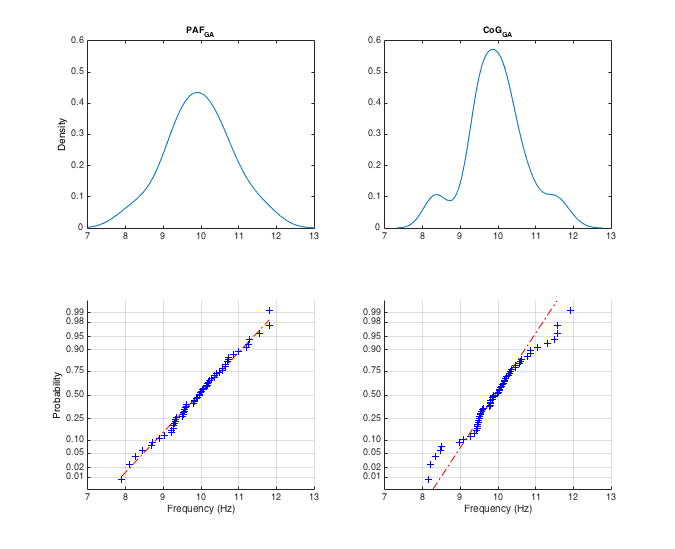
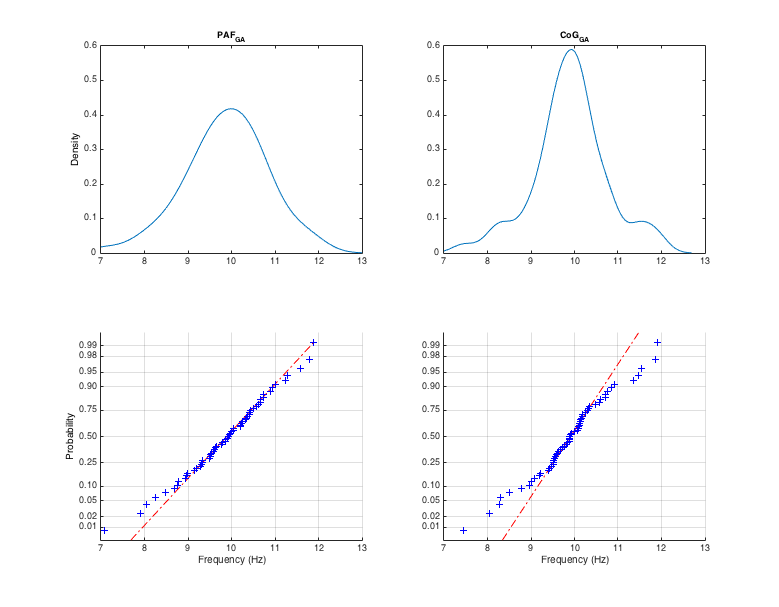
several edits addressing notes, also regenerated figs due to small error in empirical data estimates

diff --git a/iaf_manu.md b/iaf_manu.md
@@ -12,7 +12,7 @@ abstract:
   Great new IAF technique described here.
 
 keywords:   
-  Individual alpha frequency, peak alpha frequency, alpha frequency centre of gravity, posterior alpha rhythm, posterior dominant rhythm, Savitzky-Golay filter
+  Individual alpha frequency, peak frequency, centre of gravity, alpha rhythm, posterior dominant rhythm, Savitzky-Golay filter
 
 output: 
   html_document
@@ -52,7 +52,7 @@ We begin by surveying various attempts to operationalise these measures of IAF, 
 
 ### 1.1 Peak alpha frequency
 The classical method of estimating IAF relies on delineating the peak alpha frequency (PAF); a singular, prominent peak within the alpha-band frequency range (8-13 Hz; @noachtar2004) of the power spectral density (PSD) plot ([Fig_pafs](#pafs)).
-This expression can be formalised in terms of the local (i.e. relative) maximum within the alpha band:<!-- AC: PA recommended switching back to the argmax formulation, which i have tried to render below. note that i have also included additional terms to better reflect the additional requirements of the PAF mentioned in the informal definition above (singularity & prominance or nontriviality) --> 
+This expression can be formalised in terms of the local (i.e. relative) maximum within the alpha band:
 
 $$ PAF = \text{arg max}_{\substack{x\in A \subseteq PSD }} f(x) \iff \text{arg max}_{\substack{x\in A \subseteq PSD }} f(x) = \text{singleton} \land \text{max}_{\substack{x\in A \subseteq PSD }} f(x) \geq \phi , $$
 
@@ -123,11 +123,11 @@ This is obviously problematic given that one of the chief advantages of the CoG 
 We turn now to two interesting extensions of the TF approach that depend on the alpha blocking or desynchronisation phenomenon mentioned above. 
 The first method, which we refer to as peak attenuation, was described by @posthuma2001.
 
-![*Fig_blocking.* Illustration of the peak attenuation method, in which PSD estimates from a period of eyes-open EEG (EO) are subtracted from a corresponding eyes-closed recording (EC). The peak frequency of the resulting difference function (within the extended alpha band 7-14 Hz, grey column in difference spectra) is taken as the IAF estimate. *Top row*: Alpha-band activity registered during the EO recording (red shading) is relatively low compared to that of the EC spectrum (blue shading). In this case, the peak attenuation method returns the PAF of the EC spectrum as the IAF estimate. *Central row*: When alpha-band activity is similar across EO and EC recordings, peak attenuation may be vulnerable to bias. In this case, the primary peak ~9.75 Hz is present in both spectra, cancelling one another out. Peak attenuation returns 8.5 Hz (the frequency of the secondary peak) as the IAF. *Bottom row*: Data from another participant in which partial overlap of EC and EO spectral components shifts the estimated alpha peak by ~1 Hz.](figs/blocking.png){#blocking} <!-- AC: I had intended to wrap the following paragraph to one side of this figure, but I'm not sure markdown supports this.-->
+![*Fig_blocking.* Illustration of the peak attenuation method, in which PSD estimates from a period of eyes-open EEG (EO) are subtracted from a corresponding eyes-closed recording (EC). The peak frequency of the resulting difference function (within the extended alpha band 7-14 Hz, grey column in difference spectra) is taken as the IAF estimate. *Top row*: Alpha-band activity registered during the EO recording (red shading) is relatively low compared to that of the EC spectrum (blue shading). In this case, the peak attenuation method returns the PAF of the EC spectrum as the IAF estimate. *Central row*: When alpha-band activity is similar across EO and EC recordings, peak attenuation may be vulnerable to bias. In this case, the primary peak ~9.75 Hz is present in both spectra, cancelling one another out. Peak attenuation returns 8.5 Hz (the frequency of the secondary peak) as the IAF. *Bottom row*: Data from another participant in which partial overlap of EC and EO spectral components shifts the estimated alpha peak by ~1 Hz.](figs/blocking.png){#blocking}
 
-Similar in principle to Klimesch's [@klimesch1999]<!-- AC: check how to be more flexible with citation format --> delineation of the TF, this technique simply subtracts eyes-oped PSD estimates from the corresponding ordinates of the eyes-closed PSD within some a priori defined alpha-band window (typically extended beyond the standard bandwidth; e.g., 7–14 Hz).
+Similar in principle to Klimesch's [@klimesch1999] delineation of the TF, this technique simply subtracts eyes-oped PSD estimates from the corresponding ordinates of the eyes-closed PSD within some a priori defined alpha-band window (typically extended beyond the standard bandwidth; e.g., 7–14 Hz).
 The resulting peak, which constitutes the maximal power difference between the two spectra, is taken as the PAF ([Fig_blocking](#blocking), top row). 
-To avoid trivial peaks arising from small fluctuations in the PSD, Posthuma and colleagues excluded spectra featuring consistently low power estimates (< 1.5 $\mu$V/Hz) within the alpha-band. <!-- AC: They report 1.5mV, but is it safe to assume they probably meant 1.5 mV^2^ ? -->
+To avoid trivial peaks arising from small fluctuations in the PSD, Posthuma and colleagues excluded spectra featuring consistently low power estimates (< 1.5 $\mu$V/Hz) within the alpha-band.
 It isn’t clear, however, whether this criterion (which is analagous to the $\phi$ parameter in the PAF equation defined above) was also applied in cases where the maximal difference between spectra was similarly small (i.e. where both spectra present a substantive, approximately overlapping alpha-band component).
 Posthuma and colleagues also remarked that peak attenuation estimates deviated from eyes-closed resting-state PAFs in 21% of cases. 
 This lack of convergence, coupled with the observation that peak attenuation may lead to distorted representations of the PAF when the assumption of significant eyes-open alpha desynchronisation fails to obtain [see [Fig_blocking](#blocking), central and bottom row; cf. @kreitman1965], suggests peak attenuation may constitute a suboptimal IAF estimator (at least insofar as IAF is conceived in terms of the PAF).
@@ -142,7 +142,7 @@ Not only does it improve on previous attempts to characterise the bounds of the 
 As such, CRB promises to maximise the potential utility of the CoG as an estimator of IAF that can be reliably computed irrespective of the presence or absence of a single, distinct peak component. 
 We note however that, much like the peak attenuation technique, CRB estimates may be prone to bias in cases where the ERD task elicits asymmetrical patterns of alpha-band desynchronisation [@klimesch1996b; see also @klimesch1997, for evidence of the dissociation between lower and upper alpha-band reactivity]. 
 This is because the partial overlap of reference and test spectra that will ensue should the test stimulus fail to evoke comprehensive alpha desynchronisation will restrict the responsiveness region to a limited segment of the alpha band, thus precipitating a narrower (and potentially shifted) index of summation. 
-Indeed, this phenomenon might go some way to explaining the substantial discrepancies observed between some of the CRB CoGs reported by Goljahani and colleagues (some of which were extreme by conventional standards; e.g., 14.9 Hz) and the corresponding PAFs derived from the same set of channel data [@goljahani2012].<!-- AC: e.g. fig 6(d), apparently trivial reactivity window, mostly located in beta range, Cog ~17 Hz. ?NaN preferable -->
+Indeed, this phenomenon might go some way to explaining the substantial discrepancies observed between some of the CRB CoGs reported by Goljahani and colleagues (some of which were extreme by conventional standards; e.g., 14.9 Hz) and the corresponding PAFs derived from the same set of channel data [@goljahani2012].
 
 A related concern deriving from the CRB method’s reliance on phasic changes in rhythmic activity is the possibility that within-subject estimates of IAF might vary depending on the specific processing mode evoked by the event (e.g., target discrimination vs. memory retrieval; visual vs. auditory modality), and the relative timing of the reference/test intervals subjected to spectral analysis. <!-- PA: How do these concerns interact with the idea that IAF is trait-like? AC response: Several authors posit that there are a variety of alpha generators, the cumulative activity of which accounts for the characteristic resting peak (or peaks), and thus shifts in peak frequency mark shifts in the relative activity of these populations. The argument here then is that, while resting eyes closed IAF is stable/enduring and indicative of at least some cognitive capacities (presumably by tapping into specific underlying neuronal processes), measures of alpha activity during cognitive tasks (or the difference in alpha activity between different states of rest/anticipation/action) may not offer an analagous index of IAF as construed by research involving EC resting state data. I see no necessary contradiction between the notion that resting state IAF is stable/'trait-like' etc, and the observation that dominant alpha band activity dynamically shifts during 'non-restful' states (presumably as a consequency of the shifting division of labour across alpha generators). indeed, since you asked me this question, i've re-read a few articles and noticed a number of references to this idea of IAF as possessing both trait- and state-like qualities-->
 ERD studies have revealed that both the qualitative profile and temporal course of alpha- and theta-band desynchronisation are contingent upon the particular nature of the task used to induce oscillatory power shifts [@klimesch2006; @klimesch2007]. 
@@ -158,7 +158,7 @@ This technique has likewise been applied to a large dataset comprising resting-s
 Lodder and van Putten reported that higher degrees of estimate accuracy (i.e. agreement with visually identified PAFs) could be achieved by eliminating cases which manifested low quality peaks, although at its extreme this strategy resulted in a substantial rate of attrition (e.g., 41%).
 
 Given the obvious advantages of automated analysis tools, it is somewhat puzzling that these curve-fitting techniques do not yet appear to have gained widespread currency in the contemporary IAF literature [for instance, neither @goljahani2012, nor @bazanova2014, mention the development of such algorithms in their reviews of IAF methods; although cf. @haegens2014, for a notable counterexample]. 
-One possibility is that researchers are simply unaware of the existence of these methods, since the bulk of the literature in which they have been applied is concerned with broader questions of spectral modeling, rather than the quantification of IAF per se [@haegens2014's investigation of PAF variability is again the exception]. 
+One possibility is that researchers are simply unaware of the existence of these methods, since their predominant application to date has been for the purpose of spectral modeling (rather than IAF quantification per se). 
 An alternative explanation is that researchers deem these methods too complex to be a worthwhile investment of their time (especially if quantifying IAF is only an intermediary step within a broader analysis framework, rather than the main focus of the enterprise). 
 This attitude may be reinforced by the additional burden involved in obtaining and implementing an algorithm that may have been written in an unfamiliar programming language, and which poses nontrivial challenges with respect to integration within existing analysis pipelines. 
 We suggest then that one of the critical steps towards achieving a more widespread adoption of automated IAF estimation routines is to make these tools as openly available as possible, in formats that are easy to assimilate within popular methods of EEG analysis.
@@ -203,7 +203,7 @@ As such, positive to negative sign changes (i.e. downward going zero crossings) 
 Conversely, sign changes in the opposite direction (i.e. upward going zero crossings) can likewise be used to identify local minima.
 
 #### 2.1.2 Savitzky-Golay smoothing and differentiation
-Although Grandy and colleagues [@grandy2013; @grandy2013a] correctly assert that downward going zero crossings avoid the problem of arbitrary boundary effects in cases such as that of the (approximately) monotonic PSD<!-- PA: When the curvature is zero, a local optimum on a boundary would still be a local optimum even if the boundary weren’t there. AC response: I recall having some disagreement with PA about my terminology here. I'm not sure I fully understand the criticism, or if i've been misleading in my description of the method. Do you mean in the case of a constant function, where there is no change in y as a function of x ? If so, the zero crossing technique can indeed handle this situation, as it looks for changes from a positive to a negative derivative value (or vice-versa) rather than a zero value per se. -->, they fail to articulate a systematic method for differentiating substantive peaks from noisy spectral fluctuations. 
+Although Grandy and colleagues [@grandy2013;@grandy2013a] correctly assert that downward going zero crossings avoid the problem of arbitrary boundary effects in the absence of any clear alpha peak, they fail to articulate a systematic method for differentiating substantive peaks from trivial fluctuations in the PSD.
 We suggest that the situation in which spectral analysis is degraded by signal noise can be substantially improved via the application of a smoothing procedure. 
 The idea here is to attenuate such noisy fluctuations about the hypothesised true alpha peak so that the vast majority of zero crossings derived from these trivial variations are eliminated from the signal. 
 However, since standard filtering techniques (such as the moving average) may result in markedly distorted representations of the underlying peak structure [e.g., @press1992; @zeigler1981], the challenge is to find a smoothing operation that preserves the spectral characteristics at stake in IAF analysis.
@@ -245,7 +245,7 @@ Note that this procedure has no bearing on CoG estimation (since the CoG may be 
 Having defined both the height and width of the putative alpha peak by means of the first and second derivative zero crossings, peak quality is quantified via the following formula:<!-- AC: I've used integration here, or more properly an approximation to integration rendered via MATLABs `trapz` function, but I wonder if it's better to use the sum of frequency bins approach as per the CoG formula in order to draw out the similarities with the CoG calculation ? -->
 
 $$ Q = \frac{\int_{i_1}^{i_2} f(x) } { i_2 – i_1 } , $$
-<!-- PA: From the Mean Value Theorem, this is exactly the “mean” power on that interval, which tells you a bit about how strong the peak is – peaks have higher mean values. AC response: All I can tell from wikipedia etc is that the MVT proves there is at least one point on a differentiable function that has a tangent that is parallel to the secant through the function's endpoints - I don't see how this relates to the Q calculation -->
+<!-- PA: From the Mean Value Theorem, this is exactly the “mean” power on that interval, which tells you a bit about how strong the peak is – peaks have higher mean values. AC response: All I can tell from wikipedia etc is that the MVT proves there is at least one point on a differentiable function that has a tangent that is parallel to the secant through the function's endpoints - I don't see how this relates to Q calculation -->
 where $Q$ is the scaled quantity of normalised alpha peak power, and $f(x)$ is the estimated power at each frequency bin $x$ that falls within the index of integration $i_1... i_2$. 
 Note that the inclusion of the denominator ensures that spectral width is taken into account when calculating $Q$.  
 Given equal values of $\int_{i_1}^{i_2}f(x)$, the denominator adjusts the integrand such that narrower, sharper peaks are assigned a larger $Q$ value than their broader, flatter counterparts. 
@@ -363,14 +363,13 @@ Eye movements were also recorded from bipolar channels positioned above and belo
 Electrode impedances were maintained below 12.5 k$\Omega$.
 
 EEG data acquired during eyes-closed resting-state recordings were preprocessed in MATLAB 2015a (version 8.5.0.197613). 
-First, all EEG channels were imported into the MATLAB workspace via EEGLAB version 13.6.5b and re-referenced to linked mastoids. 
-Each dataset was then trimmed to retain only the nine centro-posterior electrodes that constituted the region of interest for resting-state IAF analysis: Pz, P1/2, POz, PO3/4, Oz, O1/2. 
-These channels were downsampled to 250 Hz and subjected to zero-phase, finite impulse response (FIR) highpass (passband: 1 Hz, -6 dB cutoff: 0.5 Hz) and lowpass (passband: 40 Hz, -6 dB cutoff: 45 Hz), Hamming-windowed sinc filters.
-Finally, all recordings exceeding 120 s in duration were trimmed to ensure standardisation of the total quantity of data analysed across participants.
-	
-<!-- AC: might need to change tack on this now that the minPow function is derived from fitting a regression line across the entire passband-->Note that these data were not subjected to any artifact detection/rejection procedures beyond filtering. 
-We did not anticipate any undue influence from eye movements on account of (1) the posterior location of the electrode channels, (2) the likely minimisation of blinks and eye movements due to the eyes-closed nature of the recording, and (3) the low frequency (i.e. delta and theta) characteristics of ocular artifact [@gasser1992].
-Muscular activity was likewise not expected to contaminate the spectral bandwidth of interest, on account of the relatively high frequency (i.e. ≥ 20 Hz) of electromyographic artifact [@muthukumaraswamy2013].<!-- PA: might be worth cutting down on the generic methods and just referring to Jess' paper -->
+First, all EEG data channels were imported into the MATLAB workspace via EEGLAB version 13.6.5b and re-referenced to linked mastoids. 
+Each dataset was then trimmed to retain only the EOG and the nine centro-posterior electrodes that constituted the region of interest for resting-state IAF analysis: Pz, P1/2, POz, PO3/4, Oz, O1/2. 
+Trimmed datasets were subjected to zero-phase, finite impulse response (FIR) highpass (passband: 1 Hz, -6 dB cutoff: 0.5 Hz) and lowpass (passband: 40 Hz, -6 dB cutoff: 45 Hz), Hamming-windowed sinc filters.
+Automated artifact detection routines where applied to identify regions of channel data (2 s segments) containing frequency components between 15 and 40 Hz that exceeded the upper spectral threshold by 10 dB.
+Channels that exhibited improbable data distribution (kurtosis z-score > 5) were excluded from analysis.
+EOG channels were then removed, and remaining channels downsampled to 250 Hz in preparation for spectral analysis.
+If datasets exceeded 120 s following artifact rejection, they were trimmed down to this duration in order to reduce variability in the quantity of data contributed by each participant.
 
 #### 2.3.4 IAF analysis parameters
 Initial parameters for the IAF analysis were determined on the basis of preliminary testing with an independent set of resting-state data. (These data were collected as part of a separate EEG protocol).
@@ -431,25 +430,25 @@ This enabled us to examine consistency of IAF estimation in the context of rando
 
 #### 3.1.1 Global performance of the IAF estimation routine
 Post-experiment resting-state EEG recordings were missing for three participants.
-These individuals thus contributed only one set of channel estimates each, leaving a grand total of 1107 PSDs to estimate across the sample (567 pre- and 540 post-experiment spectra).
-From these data, a total 936 PAF estimates (pre = 477, post = 459) and 1009 CoG estimates (pre = 514, post = 495) were extracted from all included channels.
+These individuals thus contributed only one set of channel estimates each to the following analysis.
+A further 11 channels were excluded from analysis on the basis of excessive kurtosis (note, no more than 1 channel was rejected from any one recording).
+This left a grand total of 1096 PSDs to estimate across the sample (561 pre- and 535 post-experiment spectra).
+From these channel data, a total 948 PAF estimates (pre = 472, post = 476) and 1009 CoG estimates (pre = 506, post = 503) were extracted across all recordings.
 
-[Fig_stacked_chans](#stacked_chans) shows the relative distribution of channel estimates furnished across all participants.
+[Fig_stacked_chans](#stacked_chans) shows the relative distribution of channel estimates derived from all participants.
 This figure indicates that the estimation routine derived PAF and CoG estimates from most (if not all) available channels in the majority of cases.
-Of those participants who registered a limited number of channel estimates, three (#29, #50, and #63) failed surpass the minimal threshold (i.e. $cMin = 3$) required for $PAF_M$ estimation. 
-This result indicates that these participants should be excluded from all PAF-related analyses on account of the general lack of a clear alpha-band peak in the majority of their channel spectra.
-One of these participants (#29) did however register sufficient $f_1$ and $f_2$ estimates to enable calculation of the post-experiment $CoG_M$, and is therefore still eligible for inclusion in analyses involving this estimator of IAF.
-Participant #63 was the only individual from whom no estimate of IAF was produced.
-Visual inspection of these individuals' PSD plots confirmed that both sets of channel data demonstrated little evidence of any distinct alpha peak component (although there is perhaps some suggestion in participant #50's spectra of a nominal peak centred about 11 Hz; [Fig_no_pafs](#no_pafs), central panel).
+Of those participants who registered a limited number of channel estimates, two (#29 and #50) failed surpass the minimal threshold (i.e. $cMin = 3$) required for $PAF_M$ estimation. 
+This result indicates that these participants should be excluded from IAF-related analyses on account of the general lack of alpha-band activity in the majority of their channel spectra.
+Visual inspection of these individuals' PSD plots confirmed that neither participant's data demonstrated compelling evidence of a distinct alpha peak component ([Fig_no_pafs](#no_pafs)).
 
-![*Fig_stacked_chans.* Stacked bar chart displaying the number of channels from which PAF (lower half) and CoG (upper half) estimates were derived across participants. PAF and CoG estimates are further divided according to order of EEG recording. Note, only the pre-experiment recording data were available for participants #26, #56, and #57.](figs/stacked_chans.png){#stacked_chans}
+![*Fig_stacked_chans.* Stacked bar chart displaying the number of channels from which PAF (lower half) and CoG (upper half) estimates were derived across participants. PAF and CoG estimates are further divided according to order of EEG recording. Totals normalised to take into account excluded channels. Note, post-experiment data where unavailable for participants #26, 56, and #57.](figs/stacked_chans.png){#stacked_chans}
 
-![*Fig_no_pafs.* Representative channel PSDs (three superposed spectra) from three sets of EEG recordings (left panel: participant #29; central panel: participant #50; right panel: participant #63) in which the PAF estimation routine failed to detect evidence of substantive alpha rhythm activity. Shaded areas indicate range of the alpha peak search window $W_\alpha$, red line indicates $minP$ threshold calculated for the first plotted channel (blue PSD function).](figs/no_pafs.png){#no_pafs}
+![*Fig_no_pafs.* Representative channel PSDs (three superposed channel spectra) from two sets of EEG recordings in which the IAF estimation routine failed to detect evidence of substantive alpha rhythm activity (top row: participant #29; bottom row: participant #50). Shaded areas indicate range of the alpha peak search window $W_\alpha$; red line indicates representative $minP$ threshold.](figs/no_pafs.png){#no_pafs}
 
 #### 3.1.2 Estimator distributions & correlation coefficients
 Consistent with previous reports [@kopruner1984;@klimesch1990], mean estimates of IAF were centred about 10 Hz, with the majority of estimates falling in the range of 9 to 11 Hz.
 $PAF_M$ and $CoG_M$ were similarly distributed across both sets of recordings (see histograms, [Fig_pre_post](#pre_post)).
-Intraclass correlation coefficients ($ICC_{3,k}$: $PAF_M = .96; CoG_M = .97$) indicate that variance in $PAF_M$ and $CoG_M$ estimates can be predominantly attributed to interindividual differences across the sample, rather than intraindividual differences between recordings (see scatterplots, [Fig_pre_post](#pre_post)).
+Intraclass correlation coefficients ($ICC_{3,k}$: $PAF_M = .97; CoG_M = .94$) indicated that variance in $PAF_M$ and $CoG_M$ estimates can be predominantly attributed to interindividual differences across the sample, rather than intraindividual differences between recordings (see scatterplots, [Fig_pre_post](#pre_post)).
 These data are therefore in accord with previous studies reporting evidence of the IAF's high temporal stability (at least within the same recording session) and interindividual variability (at least in the context of eyes-closed resting-state recordings).
 
 ![*Fig_pre_post.* *Top and central rows*: Histograms displaying distribution of $PAF_M$ (left panel) and $CoG_M$ (right panel) estimates across recordings. *Bottom row*: Scatterplots showing high degree of agreement between corresponding estimators of IAF calculated from pre- and post-experiment resting-state recordings. Broken line indicates perfect positive correlation between pre- and post-experiment IAF estimates.](figs/pre_post.png){#pre_post}
@@ -458,23 +457,22 @@ Final analyses were conducted on grand-averaged alpha peak and gravity estimates
 Note that, in cases where only one channel mean estimate was registered, this value was included as the participant's grand average.
 Kernal density estimation of the probability density function underlying $PAF_{GM}$ data suggested that sample estimates are well-characterised by a Gaussian distribution ([Fig_GA_distribs](#GA_distribs)).
 This is in keeping with previous efforts to quantify the distribution of PAF [@klimesch1996].
-$CoG_{GA}$ however showed some evidence of deviation from the Gaussian distribution due to heavy tails.
+$CoG_{GA}$ however showed some evidence of deviation from the Gaussian distribution on account of its somewhat heavier tails.
 To the best of our knowledge, this is the first study to examine the distributional properties of the $CoG$.
 It is therefore unclear how our estimation procedure compares to previous methods of calculating alpha-band $CoG$ in this regard.
-One might however speculate that estimating IAF via the $CoG$ increases the likelihood of relatively more extreme values, on account of the latter's sensitivity to skewness within the region of the PSD defined by the individual alpha band.
-In spite of this apparent difference in distributional characteristics, $PAF_{GA}$ and $CoG_{GA}$ produced remarkably consistent results ($ICC_{3,k} =.97$; $R^2 = .90$).
+In spite of this apparent difference in distributional characteristics, $PAF_{GA}$ and $CoG_{GA}$ produced remarkably consistent results ($ICC_{3,k} =.97$; $R^2 = .88$).
 This finding, which extends that reported in a smaller sample by Jann and colleagues [@jann2010], lends support to the claim that these two estimators tap into the same fundamental oscillatory process.
 
-![*Fig_GA_distribs. *Top row*: Probability density of $PAF_{GA}$ (left panel) and $CoG_{GA}$ (right panel) following application of a Gaussian kernal density estimator. *Bottom row*: Normal probability plots indicating how well $PAF_{GA}$ and $CoG_{GA}$ estimates approximate a normal distribution (indicated by the broken red line). While $PAF_{GA}$ estimates vary in fashion consistent with an underlying normal distribution, the $CoG_{GA}$ estimator shows evidence of a somewhat heavier-tailed distribution.*](figs/GA_distribs.png){#GA_distribs}
+![*Fig_GA_distribs. *Top row*: Probability density of $PAF_{GA}$ (left panel) and $CoG_{GA}$ (right panel) following application of a Gaussian kernal density estimator. *Bottom row*: Normal probability plots indicating how well $PAF_{GA}$ and $CoG_{GA}$ estimates approximate a normal distribution (indicated by the broken red line). While $PAF_{GA}$ estimates vary in a fashion broadly consistent with an underlying normal distribution, the $CoG_{GA}$ estimator shows evidence of a somewhat heavier-tailed distribution.*](figs/GA_distribs.png){#GA_distribs}
 
 
-![*Fig_intercorrel.* Scatterplot displaying correlation between grand averaged PAF and CoG estimates across all participants for whom both estimators were calculated. Broken line indicates perfect positive correlation between IAF estimators.](figs/intercorrel.png){#intercorrel}
+![*Fig_intercorrel.* Scatterplot displaying association between grand averaged PAF and CoG estimates across all participants for whom both estimators were calculated. Broken line indicates perfect positive correlation between IAF estimators.](figs/intercorrel.png){#intercorrel}
 
 
 
 <!-- pre/post highly correlated as expected. markers of stable feature of PSD. loss of ~10% recordings speaks to value of pre/post-->
 
-
+<!-- One might however speculate that estimating IAF via the $CoG$ increases the likelihood of relatively more extreme values, on account of the latter's sensitivity to skewness within the region of the PSD defined by the individual alpha band.-->
 <!--
 grand average PSDs
 correl / shared var cog vs paf [cf @jann2010]
